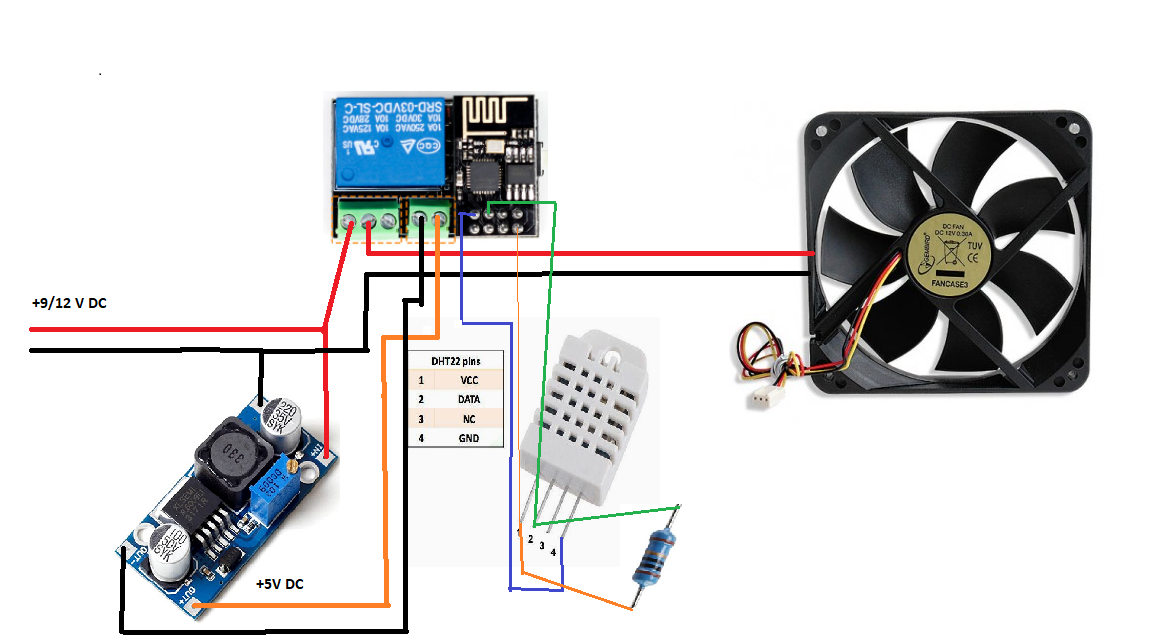
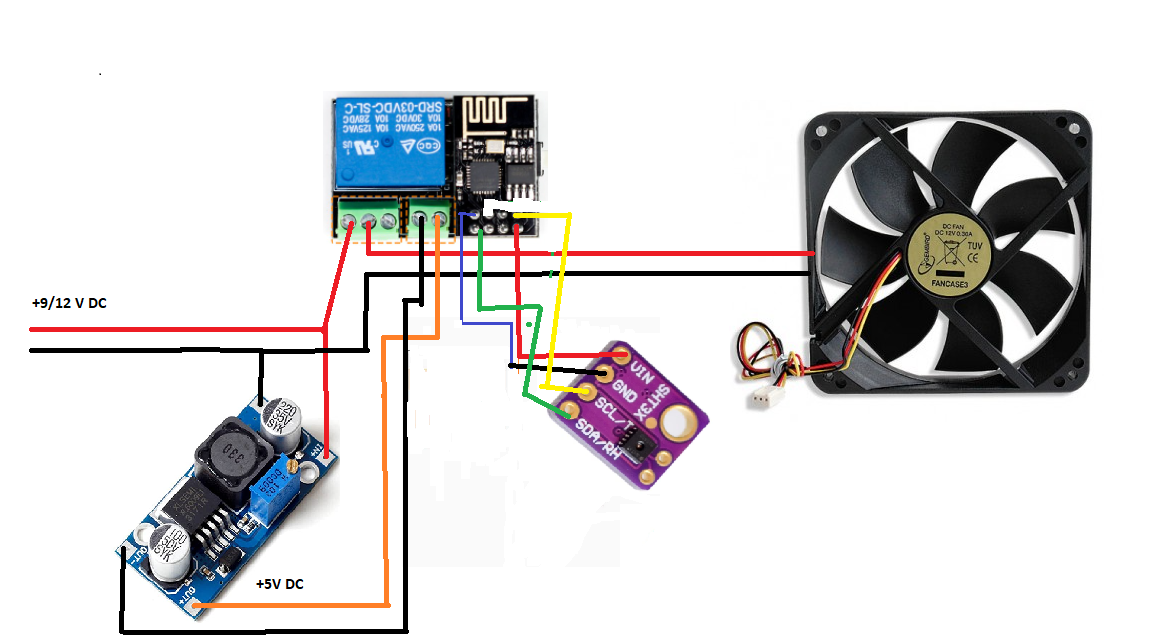
v2 14032023

Changed region(s): [[0.3435, 0.311, 0.6245, 0.9642]]

diff --git a/README.md b/README.md
@@ -9,6 +9,8 @@ Ce petit montage est utilisé pour ventiler mon rack informatique si la tempéra
 Tout est configurable depuis l'interface de Home Assistant mais la logique se fait directement dans l'esp8266.   
 Par defaut, le ventilateur est declenché.
 
+V2 : remplacement du dht22 par un sht31d (fonctionne bien mieux avec l'esp01s)
+
 ### Fonctionnement :
 
 On détermine un seuil X en température et on ventile si ce seuil est dépassé.   
@@ -19,32 +21,31 @@ On peut forcer la ventilation et régler le seuil de temperature.
 
 - 1 ou 2 ventilateurs 12v/12cm de pc 3pins sans pwm (alimenté en 12v via le relai)
 - 1x ftdi (1er flash)
-- 1x esp8266 esp01 (pas un esp01s)
+- 1x esp8266 esp01s
 - 1x carte relai shield pour esp01-s (prendre une v4)
 - 1x alimentation 12v dc suffisante pour alimenter le ou les ventilateurs
-- 1x convertisseur 12v dc=>5v dc
-- 1x convertisseur 5v dc=>3.3v dc (à revoir pas besoin normalement)
-- 1x DHT22
-- 1x resistance 4.7K ohm
+- 1x convertisseur 12v dc=>5v dc (lm2596 step down)
+- 1x SHT31D (i2c pin 1 et 3)
 - 1x boitier
 - 1x interrupteur
 - 1x fusible 20x5 1A + porte fusible
 
 ### Cablage :
 
-Le data du dht22 doit etre directement soudé au GPIO2 sur la carte relai.  
-Avec une resistance de 4.7kohm entre data et vcc (+3.3v).     
+v1 : dht22
+Gros probleme avec le dht22 et l'esp01s... fonctionne bien sur un esp01
+mais l'esp01 a une memoire trop petit pour les flash ota.
 
-La sonde dht22 ne fonctionne pas correctement avec un esp01s sur le gpio2 (led bleu sur ce gpio) => à revoir.
-J'ai du utiliser un esp01.   
-Il y a un problème avec l'esp01. Sa mémoire est apparemment trop petite pour flasher en ota depuis esphome.  
-Il faut donc le flasher a chaque modification du yaml avec esphome flasher ou via le navigateur.  
+v2 : remplacement du dht22 par un sht31d et de l'esp01 par un esp01s
+
+i2c sur les gpio 1 et 3
+le relais sur le gpio 0
 
 ![links](https://github.com/NicoDupont/esp_ventilation_rack_info/blob/main/img/shema.png?raw=true)
 
 ### Montage :
 
-![links](https://github.com/NicoDupont/esp_ventilation_rack_info/blob/main/img/boitier.png?raw=true)
+![links](https://github.com/NicoDupont/esp_ventilation_rack_info/blob/main/img/boitier.jpg?raw=true)
 
 
 ### HomeAssistant :
